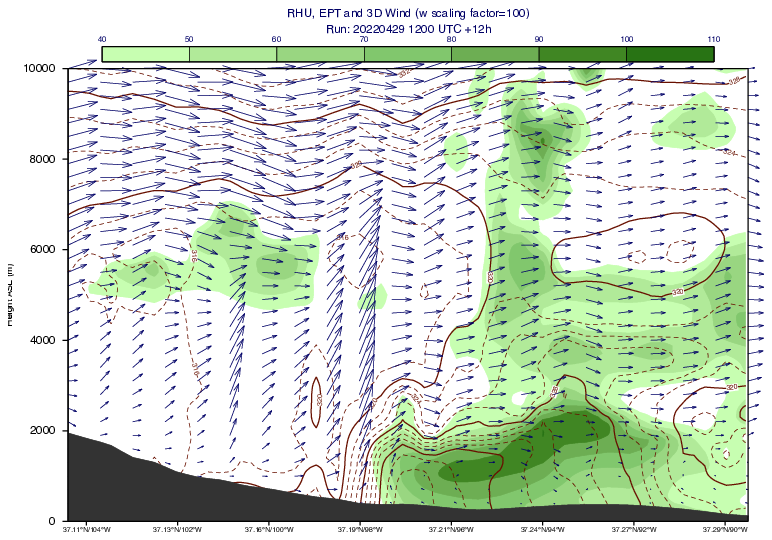
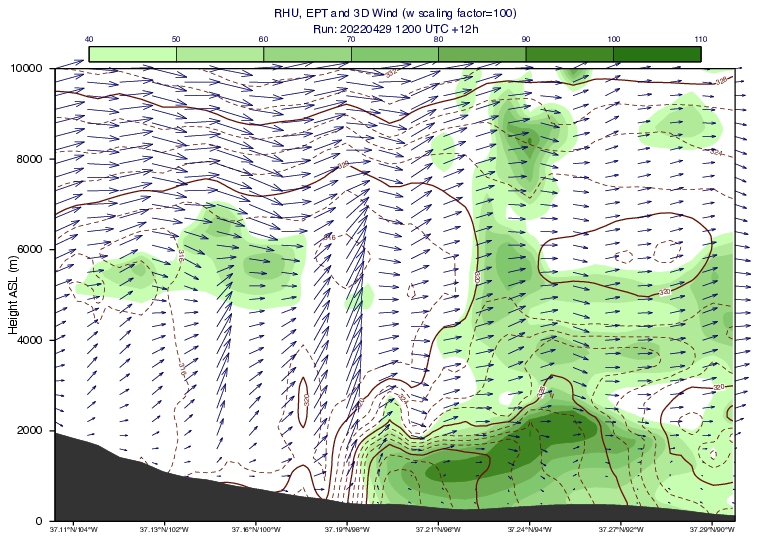
Add cross section gallery example

diff --git a/docs/gallery/cross_section_wind3d_height_with_valleys.py b/docs/gallery/cross_section_wind3d_height_with_valleys.py
@@ -1,6 +1,7 @@
 """
-Cross Section 3D Wind in Height for Model Level Data 
+Cross Section Wind Speed and 3D Wind in Height for Model Level Data 
 """
+
 # (C) Copyright 2017- ECMWF.
 #
 # This software is licensed under the terms of the Apache Licence Version 2.0
@@ -15,7 +16,7 @@ import metview as mv
 
 # Note: at least Metview version 5.16.0 is required
 
-filename = "xs_ml_wind_orog.grib"
+filename = "xs_ml_wind_orog_valley.grib"
 
 # get data
 use_mars = False
@@ -23,25 +24,25 @@ use_mars = False
 if use_mars:
     # retrieve data from MARS
     ret_core = {
-        "date": 20220429,
-        "time": 12,
-        "area": [45, -120, 20, -80],
-        "grid": [0.5, 0.5],
+        "date": 20220411,
+        "time": 0,
+        "area": [44, -20, 30, 0],
+        "grid": [0.1, 0.1],
     }
 
-    # forecast fields on model levels 60-137 (bottom is ML=137)
+    # forecast fields on model levels 90-137 (bottom is ML=137)
     fs_ml = mv.retrieve(
         **ret_core,
         type="fc",
         levtype="ml",
-        levelist=[60, "TO", 137],
-        step=12,
+        levelist=[90, "TO", 137],
+        step=6,
         param=["t", "q", "u", "v", "w"],
     )
 
     # log surface pressure (lnsp) is defined on ML-1!
     lnsp = mv.retrieve(
-        **ret_core, type="fc", levtype="ml", levelist=1, step=12, param=["lnsp"]
+        **ret_core, type="fc", levtype="ml", levelist=1, step=6, param=["lnsp"]
     )
     # surface geopotential is available in
     # the analysis only! It is available on ML-1!
@@ -66,35 +67,32 @@ zs = mv.read(data=fs_ml, param="z", levelist=1)
 # compute vertical velocity in m/s
 w = mv.w_from_omega(w, t, lnsp)
 
-# compute relative humidity
-rh = mv.relhum(data=mv.merge(t, q, lnsp))
-
-# compute equivalent potential temperature
-ept = mv.eqpott_m(lnsp=lnsp, temperature=t, humidity=q)
-
 # compute geopotential on model levels and scale it to m
 z = mv.mvl_geopotential_on_ml(t, q, lnsp, zs)
 z = z / 9.81
 
 # define cross section line
-line = [37.1, -104.4, 37.3, -89.50]
+line = [42.0, -7.6, 38.0, -7.6]
 
 # define bottom and top level (m)
-top_level = 10000
+top_level = 1200
 bottom_level = 0
 
 # define number of target levels
-level_count = 101
+level_count = 1 + (top_level - bottom_level) / 20
 
-# define verical velocity scaling
-w_scale_factor = 100
+# define vertical velocity scaling
+w_scale_factor = 80
 
 # compute cross sections in height (above sea level) for a fixed set
 # of target levels (at least Metview version 5.16.0 is required).
 
-# relative humidity
-xs_rh = mv.mcross_sect(
-    data=mv.merge(rh, z),
+# compute horizontal speed
+sp = mv.speed(u, v)
+
+# speed
+xs_sp = mv.mcross_sect(
+    data=mv.merge(sp, z),
     line=line,
     level_selection_type="count",
     level_count=level_count,
@@ -106,21 +104,6 @@ xs_rh = mv.mcross_sect(
     top_level=top_level,
     bottom_level=bottom_level,
 )
-
-# ept
-xs_ept = mv.mcross_sect(
-    data=mv.merge(ept, z),
-    line=line,
-    level_selection_type="count",
-    level_count=level_count,
-    vertical_coordinates="user",
-    vertical_coordinate_param=129,
-    vertical_coordinate_extrapolate="on",
-    vertical_coordinate_extrapolate_mode="constant",
-    top_level=top_level,
-    bottom_level=bottom_level,
-)
-
 # 3D wind
 xs_wind = mv.mcross_sect(
     data=mv.merge(u, v, w, z),
@@ -139,46 +122,41 @@ xs_wind = mv.mcross_sect(
 )
 
 # generate orography area curve
-orog_curve = mv.xs_build_orog(xs_rh, zs / 9.81, bottom_level, "charcoal")
-#'RGBA(0.7,0.7,0.7,0.5)')
+orog_curve = mv.xs_build_orog(xs_wind, zs / 9.81, bottom_level, "charcoal")
 
-# define contouring for ept
-ept_cont = mv.mcont(
-    contour_line_style="dash",
-    contour_line_colour="brown",
-    contour_highlight_colour="brown",
-    contour_highlight_thickness=2,
-    contour_level_selection_type="interval",
-    contour_interval=2,
-)
-
-# define contour shading for rh
-rh_cont = mv.mcont(
+# define speed style
+sp_style = mv.mcont(
     legend="on",
     contour="off",
     contour_level_selection_type="interval",
-    contour_max_level=110,
-    contour_min_level=40,
-    contour_interval=10,
+    contour_max_level=20,
+    contour_min_level=0,
+    contour_interval=2,
     contour_label="off",
     contour_shade="on",
     contour_shade_colour_method="palette",
     contour_shade_method="area_fill",
-    contour_shade_palette_name="norway_green_7",
+    contour_shade_palette_name="m_blue_green2_10",
 )
 
 # define wind plotting style
 wind_style = mv.mwind(
-    wind_thinning_factor=3, wind_arrow_colour="navy", wind_arrow_unit_velocity=30
+    wind_thinning_factor=2, wind_arrow_colour="black", wind_arrow_unit_velocity=25
 )
 
 # define vertical axis
 vertical_axis = mv.maxis(
     axis_orientation="vertical",
     axis_title_text="Height ASL (m)",
-    axis_tick_label_height=0.5,
+    axis_tick_label_height=0.4,
     axis_title_height=0.5,
-    axis_title_position=140,
+    axis_title_position=130,
+)
+
+# define horizontal axis
+horizontal_axis = mv.maxis(
+    axis_orientation="horizontal",
+    axis_tick_label_height=0.4,
 )
 
 # define cross section view in height above sea level (m)
@@ -186,6 +164,7 @@ xs_view = mv.mxsectview(
     line=line,
     top_level=top_level,
     bottom_level=bottom_level,
+    horizontal_axis=horizontal_axis,
     vertical_axis=vertical_axis,
 )
 
@@ -198,22 +177,20 @@ meta = mv.grib_get(u[0], ["date", "time", "step"])[0]
 # define title
 title = mv.mtext(
     text_lines=[
-        f"RHU, EPT and 3D Wind (w scaling factor={w_scale_factor})",
+        f"Wind speed (m/s) and 3D Wind (w scaling factor={w_scale_factor})",
         f"Run: {meta[0]} {meta[1]} UTC +{meta[2]}h",
     ],
     text_font_size=0.5,
 )
 
 # define the output plot file
-mv.setoutput(mv.pdf_output(output_name="cross_section_wind3d_height_ml_orog"))
+mv.setoutput(mv.pdf_output(output_name="cross_section_wind3d_height_with_valleys"))
 
 # generate plot
 mv.plot(
     xs_view,
-    xs_rh,
-    rh_cont,
-    xs_ept,
-    ept_cont,
+    xs_sp,
+    sp_style,
     xs_wind,
     wind_style,
     orog_curve,
